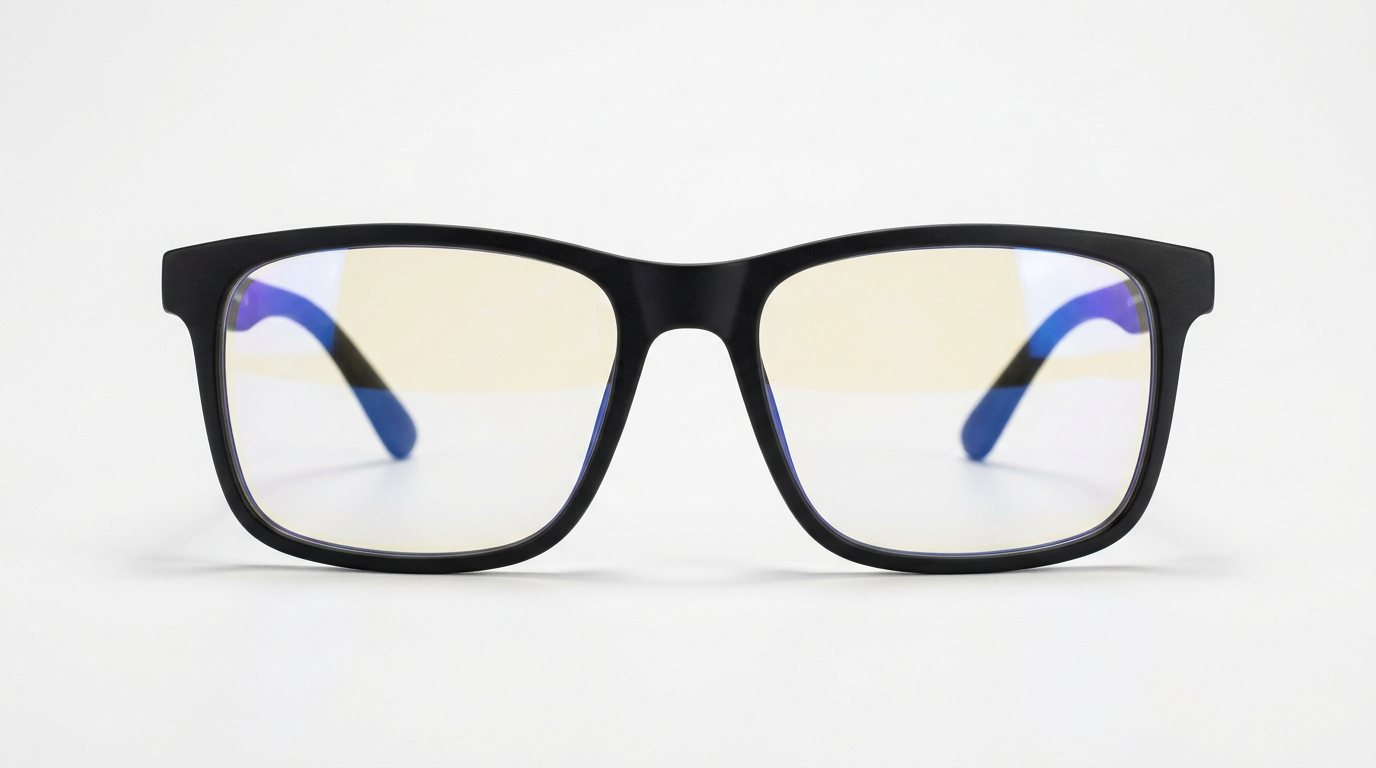
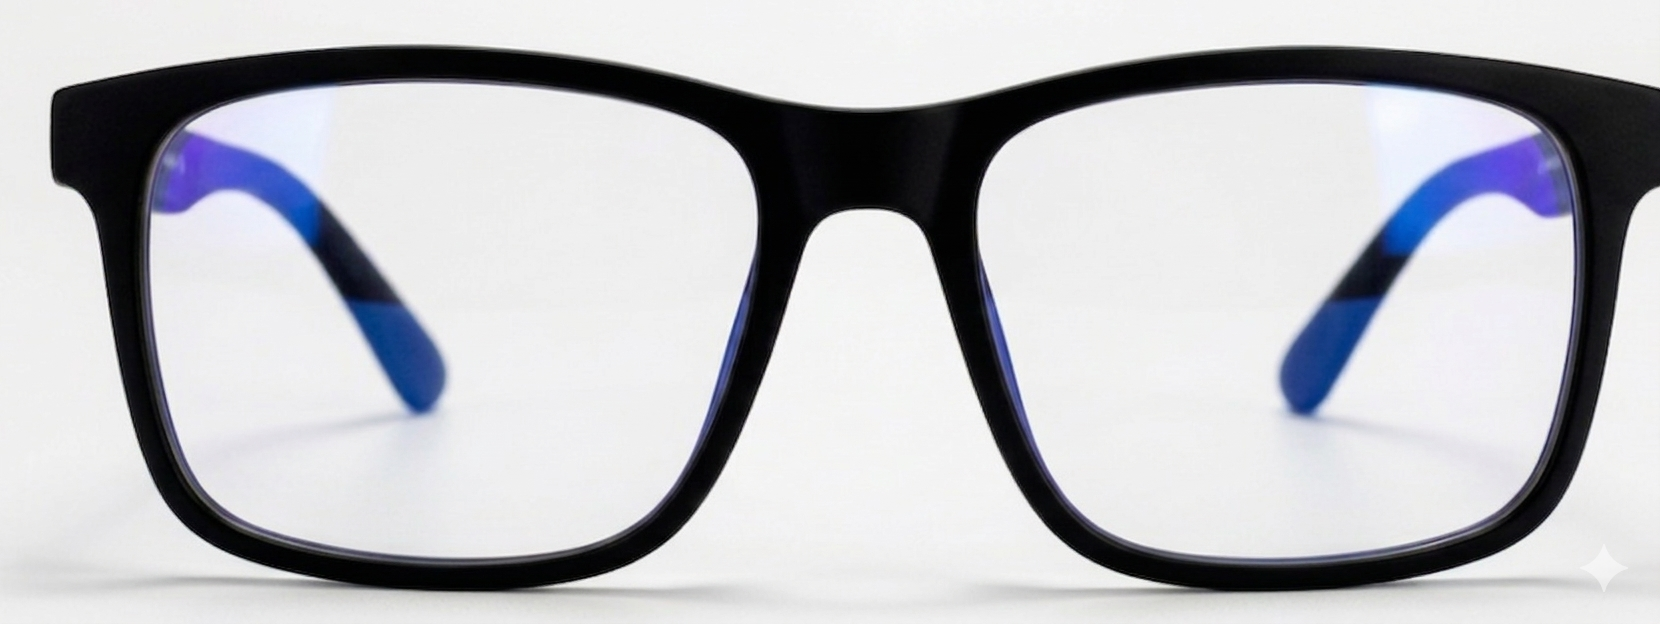
feat(tint): update tint previews and fashion images
Add color-aware preview images for darkness selection and wire up new
fashion color lens assets. Also refine the photochromic preview
crossfade mask.

Made-with: Cursor

diff --git a/src/config/productSteps.js b/src/config/productSteps.js
@@ -8,14 +8,14 @@ export default [
       {
         title: "Enkelslipade glas / glas utan styrka",
         description: "Glas som korrigerar ett synfel - avstånd eller nära.",
-        imageSrc: "/images/Enkelslipad.png",
+        imageSrc: "/images/Enkelslipadeung.png",
         priceKey: 'glass_single',
         nextStep: 'usage'
       },
       {
         title: "Progressiva glas",
         description: "Glas med flera styrkor. Korrigerar synfel för avstånd och nära",
-        imageSrc: "/images/Progressiva.png",
+        imageSrc: "/images/Progressivaaldre.png",
         priceKey: 'glass_progressive',
         nextStep: 'prescription'
       }
@@ -51,7 +51,7 @@ export default [
       {
         title: 'Våra egna glasmärken',
         description: 'Välj från vårt eget sortiment av glas.',
-        imageSrc: '/images/VaraEgnaGlasmarken.png',
+        imageSrc: '/images/VaraEgnaGlasmarken.jpg',
         nextStep: 'lensRecommendation'
       },
       {
@@ -97,7 +97,7 @@ export default [
       {
         title: 'Fullständig behandling',
         description: 'Anti-reflex, repskydd och antistatisk behandling ingår i alla glas.',
-        imageSrc: '/images/Standardbehandling.png',
+        imageSrc: '/images/FullstandingBehandling.png',
         nextStep: null,
         priceKey: 'treatment_standard'
       },
@@ -119,14 +119,14 @@ export default [
       {
         title: "Ofärgade glas",
         description: "I nästa steg kan du lägga till blåljusfilter som tillval.",
-        imageSrc: "/images/Enkelslipad.png",
+        imageSrc: "/images/ofargadlens.png",
         priceKey: 'tint_none',
         nextStep: 'summary'
       },
       {
         title: "Färgade glas",
         description: "Välj typ av toning – helfärg, gradal, heltoning eller polariserad – och sedan färg.",
-        imageSrc: "/images/Solglas.png",
+        imageSrc: "/images/fargadlens.png",
         nextStep: 'coloredGlassType'
       },
       {
@@ -135,8 +135,8 @@ export default [
         infoTitle: "Så fungerar färgskiftande glas",
         infoText:
           "Fotokromatiska glas är klara inomhus och mörknar av UV‑strålning. Mörkhet och hur snabbt de skiftar påverkas av temperatur – i kyla blir de oftast mörkare och i värme skiftar de ofta långsammare. Bakom vindruta (där mycket UV filtreras bort) kan effekten bli svagare.",
-        imageSrc: "/images/Fargskiftande-light.png",
-        imageSrcDark: "/images/Fargskiftande-dark.png",
+        imageSrc: "/images/ofargadlens.png",
+        imageSrcDark: "/images/ofargadlens.png",
         nextStep: 'photochromicColorSelection'
       }
     ]
@@ -150,13 +150,13 @@ export default [
       {
         title: "Helfärg",
         description: "Enhetlig färg över hela glaset. Välj färg i nästa steg.",
-        imageSrc: "/images/Heltonade.png",
+        imageSrc: "/images/fargadlens.png",
         nextStep: 'solidColorCategory'
       },
       {
         title: "Gradal",
         description: "Tonas successivt – mörkare upptill, ljusare nedtill.",
-        imageSrc: "/images/Gradaltonade.png",
+        imageSrc: "/images/lens-brown-25-10.png",
         nextStep: 'gradientColorCategory'
       },
       {
@@ -183,7 +183,7 @@ export default [
       {
         title: 'Standardfärger',
         description: 'Välj mellan våra vanligaste färger.',
-        imageSrc: '/images/Gradaltonade.png',
+        imageSrc: '/images/lens-brown-85-40.png',
         nextStep: 'gradientTintSelection'
       },
       {
@@ -254,14 +254,14 @@ export default [
       {
         title: 'Standardfärger',
         description: 'Välj mellan våra vanligaste färger.',
-        imageSrc: '/images/Heltonade.png',
+        imageSrc: '/images/lens-solid-grey-85.png',
         nextStep: 'colorSelection'
       },
       {
         title: 'Modefärger',
         description: 'Välj mellan säsongens nyheter.',
         badgeText: 'Nyhet',
-        imageSrc: '/images/Solglas.png',
+        imageSrc: '/images/lens-fashion-lagoon-70.png',
         nextStep: 'fashionColorSelection'
       }
     ]
@@ -272,15 +272,15 @@ export default [
     showBackButton: true,
     backStep: null,
     options: [
-      { title: 'Lagoon 70%', imageSrc: '/images/Heltonade.png', nextStep: 'summary', internalColorId: 'F72' },
-      { title: 'Oak 70%', imageSrc: '/images/Heltonade.png', nextStep: 'summary', internalColorId: 'F71' },
-      { title: 'Grape 70%', imageSrc: '/images/Heltonade.png', nextStep: 'summary', internalColorId: 'F70' },
-      { title: 'Ocean 73%', imageSrc: '/images/Heltonade.png', nextStep: 'summary', internalColorId: 'F78' },
-      { title: 'Berry 55%', imageSrc: '/images/Heltonade.png', nextStep: 'summary', internalColorId: 'F79' },
-      { title: 'Rose 30%', imageSrc: '/images/Heltonade.png', nextStep: 'summary', internalColorId: 'F93' },
-      { title: 'Peach 30%', imageSrc: '/images/Heltonade.png', nextStep: 'summary', internalColorId: 'F81' },
-      { title: 'Sky 25%', imageSrc: '/images/Heltonade.png', nextStep: 'summary', internalColorId: 'F80' },
-      { title: 'Lime 37%', imageSrc: '/images/Heltonade.png', nextStep: 'summary', internalColorId: 'F97' }
+      { title: 'Lagoon 70%', imageSrc: '/images/lens-fashion-lagoon-70.png', nextStep: 'summary', internalColorId: 'F72' },
+      { title: 'Oak 70%', imageSrc: '/images/lens-fashion-oak-70.png', nextStep: 'summary', internalColorId: 'F71' },
+      { title: 'Grape 70%', imageSrc: '/images/lens-fashion-grape-70.png', nextStep: 'summary', internalColorId: 'F70' },
+      { title: 'Ocean 73%', imageSrc: '/images/lens-fashion-ocean-73.png', nextStep: 'summary', internalColorId: 'F78' },
+      { title: 'Berry 55%', imageSrc: '/images/lens-fashion-berry-55.png', nextStep: 'summary', internalColorId: 'F79' },
+      { title: 'Rose 30%', imageSrc: '/images/lens-fashion-rose-30.png', nextStep: 'summary', internalColorId: 'F93' },
+      { title: 'Peach 30%', imageSrc: '/images/lens-fashion-peach-30.png', nextStep: 'summary', internalColorId: 'F81' },
+      { title: 'Sky 25%', imageSrc: '/images/lens-fashion-sky-25.png', nextStep: 'summary', internalColorId: 'F80' },
+      { title: 'Lime 37%', imageSrc: '/images/lens-fashion-lime-37.png', nextStep: 'summary', internalColorId: 'F97' }
     ]
   },
   {
@@ -339,7 +339,7 @@ export default [
       {
         title: "Gradal toning 25-10",
         description: "25% tonat upptill, 10% nedtill.",
-        imageSrc: "/images/Gradaltonade.png",
+        imageSrc: "/images/lens-grey-25-10.png",
         nextStep: 'colorSelection',
         priceKey: 'tint_gradient_25_10',
         internalIdByColor: {
@@ -352,7 +352,7 @@ export default [
       {
         title: "Gradal toning 75-10",
         description: "75% tonat upptill, 10% nedtill.",
-        imageSrc: "/images/Gradaltonade.png",
+        imageSrc: "/images/lens-grey-75-10.png",
         nextStep: 'colorSelection',
         priceKey: 'tint_gradient_75_10',
         internalIdByColor: {
@@ -365,7 +365,7 @@ export default [
       {
         title: "Gradal toning 85-40",
         description: "85% tonat upptill, 40% nedtill.",
-        imageSrc: "/images/Gradaltonade.png",
+        imageSrc: "/images/lens-grey-85-40.png",
         nextStep: 'colorSelection',
         priceKey: 'tint_gradient_85_40',
         internalIdByColor: {
@@ -432,22 +432,22 @@ export default [
     options: [
       {
         title: "Brun",
-        imageSrc: "/images/Brun.png",
+        imageSrc: "/images/lens-solid-brown-85.png",
         nextStep: 'summary',
       },
       {
         title: "Grå",
-        imageSrc: "/images/Gra.png",
+        imageSrc: "/images/lens-solid-grey-85.png",
         nextStep: 'summary',
       },
       {
         title: "Grön",
-        imageSrc: "/images/Gron.png",
+        imageSrc: "/images/lens-solid-green-85.png",
         nextStep: 'summary',
       },
       {
         title: "Blå",
-        imageSrc: "/images/Bla.png",
+        imageSrc: "/images/lens-solid-blue-85.png",
         nextStep: 'summary',
       }
     ]
@@ -462,6 +462,12 @@ export default [
         title: "12% mörkhet",
         description: "Lätt toning.",
         imageSrc: "/images/Heltonade.png",
+        imageSrcByColor: {
+          Brun: "/images/lens-solid-brown-12.png",
+          Grå: "/images/lens-solid-grey-12.png",
+          Grön: "/images/lens-solid-green-12.png",
+          Blå: "/images/lens-solid-blue-12.png"
+        },
         nextStep: 'summary',
         priceKey: 'tint_12percent',
         internalIdByColor: {
@@ -475,6 +481,12 @@ export default [
         title: "20% mörkhet",
         description: "Mellanmörk toning.",
         imageSrc: "/images/Heltonade.png",
+        imageSrcByColor: {
+          Brun: "/images/lens-solid-brown-20.png",
+          Grå: "/images/lens-solid-grey-20.png",
+          Grön: "/images/lens-solid-green-20.png",
+          Blå: "/images/lens-solid-blue-20.png"
+        },
         nextStep: 'summary',
         priceKey: 'tint_20percent',
         internalIdByColor: {
@@ -488,6 +500,12 @@ export default [
         title: "65% mörkhet",
         description: "Kraftig toning.",
         imageSrc: "/images/Heltonade.png",
+        imageSrcByColor: {
+          Brun: "/images/lens-solid-brown-65.png",
+          Grå: "/images/lens-solid-grey-65.png",
+          Grön: "/images/lens-solid-green-65.png",
+          Blå: "/images/lens-solid-blue-65.png"
+        },
         nextStep: 'summary',
         priceKey: 'tint_65percent',
         internalIdByColor: {
@@ -500,7 +518,13 @@ export default [
       {
         title: "75% mörkhet",
         description: "Mycket mörk toning.",
-        imageSrc: "/images/Gradaltonade.png",
+        imageSrc: "/images/Heltonade.png",
+        imageSrcByColor: {
+          Brun: "/images/lens-solid-brown-75.png",
+          Grå: "/images/lens-solid-grey-75.png",
+          Grön: "/images/lens-solid-green-75.png",
+          Blå: "/images/lens-solid-blue-75.png"
+        },
         nextStep: 'summary',
         priceKey: 'tint_75percent',
         internalIdByColor: {
@@ -513,7 +537,13 @@ export default [
       {
         title: "85% mörkhet",
         description: "Standard för solglas (rekommenderas).",
-        imageSrc: "/images/Gradaltonade.png",
+        imageSrc: "/images/Heltonade.png",
+        imageSrcByColor: {
+          Brun: "/images/lens-solid-brown-85.png",
+          Grå: "/images/lens-solid-grey-85.png",
+          Grön: "/images/lens-solid-green-85.png",
+          Blå: "/images/lens-solid-blue-85.png"
+        },
         nextStep: 'summary',
         priceKey: 'tint_85percent',
         internalIdByColor: {
@@ -544,7 +574,7 @@ export default [
       {
         title: 'Utan styrkor',
         description: 'Jag behöver inte styrkor – t.ex. solglas utan styrka.',
-        imageSrc: '/images/UtanStyrkor.png',
+        imageSrc: '',
         nextStep: 'lensBrand',
         skipsPrescription: true
       }

diff --git a/src/components/Card.vue b/src/components/Card.vue
@@ -1,6 +1,6 @@
 <script setup>
 
-defineProps({
+const props = defineProps({
   title: String,
   description: String,
   imageSrc: String,
@@ -46,8 +46,15 @@ defineEmits(['click', 'info']);
     <div v-if="imageSrc" class="mb-4 flex-shrink-0 h-24 flex items-center justify-center relative w-full">
       <!-- Animated pair: light ↔ dark crossfade -->
       <template v-if="imageSrcDark">
-        <img :src="imageSrc" :alt="title" class="h-24 object-contain absolute inset-0 m-auto photochromic-light">
-        <img :src="imageSrcDark" :alt="title" class="h-24 object-contain absolute inset-0 m-auto photochromic-dark">
+        <div class="photochromic-clip" aria-hidden="true">
+          <img :src="imageSrc" :alt="title" class="photochromic-img photochromic-light">
+          <img
+            :src="imageSrcDark"
+            :alt="title"
+            class="photochromic-img photochromic-dark"
+            :class="props.imageSrcDark === props.imageSrc ? 'photochromic-dark--filter' : ''"
+          >
+        </div>
       </template>
       <img v-else :src="imageSrc" :alt="title" class="h-24 object-contain">
     </div>
@@ -93,5 +100,25 @@ defineEmits(['click', 'info']);
 }
 .photochromic-dark {
   animation: photochromic-dark 4s ease-in-out infinite;
+}
+.photochromic-clip {
+  width: 96px;
+  height: 96px;
+  position: relative;
+  overflow: hidden;
+  border-radius: 9999px;
+  /* Clip a bit tighter to avoid showing any outer halo */
+  clip-path: circle(42% at 50% 50%);
+  background: transparent;
+}
+.photochromic-img {
+  width: 100%;
+  height: 100%;
+  object-fit: contain;
+  position: absolute;
+  inset: 0;
+}
+.photochromic-dark--filter {
+  filter: brightness(0.45) saturate(0.9) contrast(1.1);
 }
 </style>

diff --git a/src/views/Selectionpage.vue b/src/views/Selectionpage.vue
@@ -49,6 +49,15 @@ function getImageSrc(src) {
   return v ? `${path}?v=${v}` : path;
 }
 
+function getOptionImageSrc(option) {
+  const selectedColorTitle = order.value.selections?.colorSelection?.title;
+  const byColor = option?.imageSrcByColor;
+  if (selectedColorTitle && byColor && byColor[selectedColorTitle]) {
+    return byColor[selectedColorTitle];
+  }
+  return option?.imageSrc;
+}
+
 // Get the initial glass type selection
 const initialGlassType = computed(() => order.value.selections?.glassType?.title || null);
 
@@ -521,7 +530,7 @@ function goBack() {
             <Card
               :title="getProperTitle(option)"
               :description="getOptionDescription(option)"
-              :imageSrc="getImageSrc(option.imageSrc)"
+              :imageSrc="getImageSrc(getOptionImageSrc(option))"
               :imageSrcDark="option.imageSrcDark ? getImageSrc(option.imageSrcDark) : undefined"
               :badgeText="option.badgeText"
               :price="getOptionPrice(option)"
@@ -578,7 +587,7 @@ function goBack() {
             <Card
               :title="getProperTitle(option)"
               :description="getOptionDescription(option)"
-              :imageSrc="getImageSrc(option.imageSrc)"
+              :imageSrc="getImageSrc(getOptionImageSrc(option))"
               :imageSrcDark="option.imageSrcDark ? getImageSrc(option.imageSrcDark) : undefined"
               :badgeText="option.badgeText"
               :price="getOptionPrice(option)"
